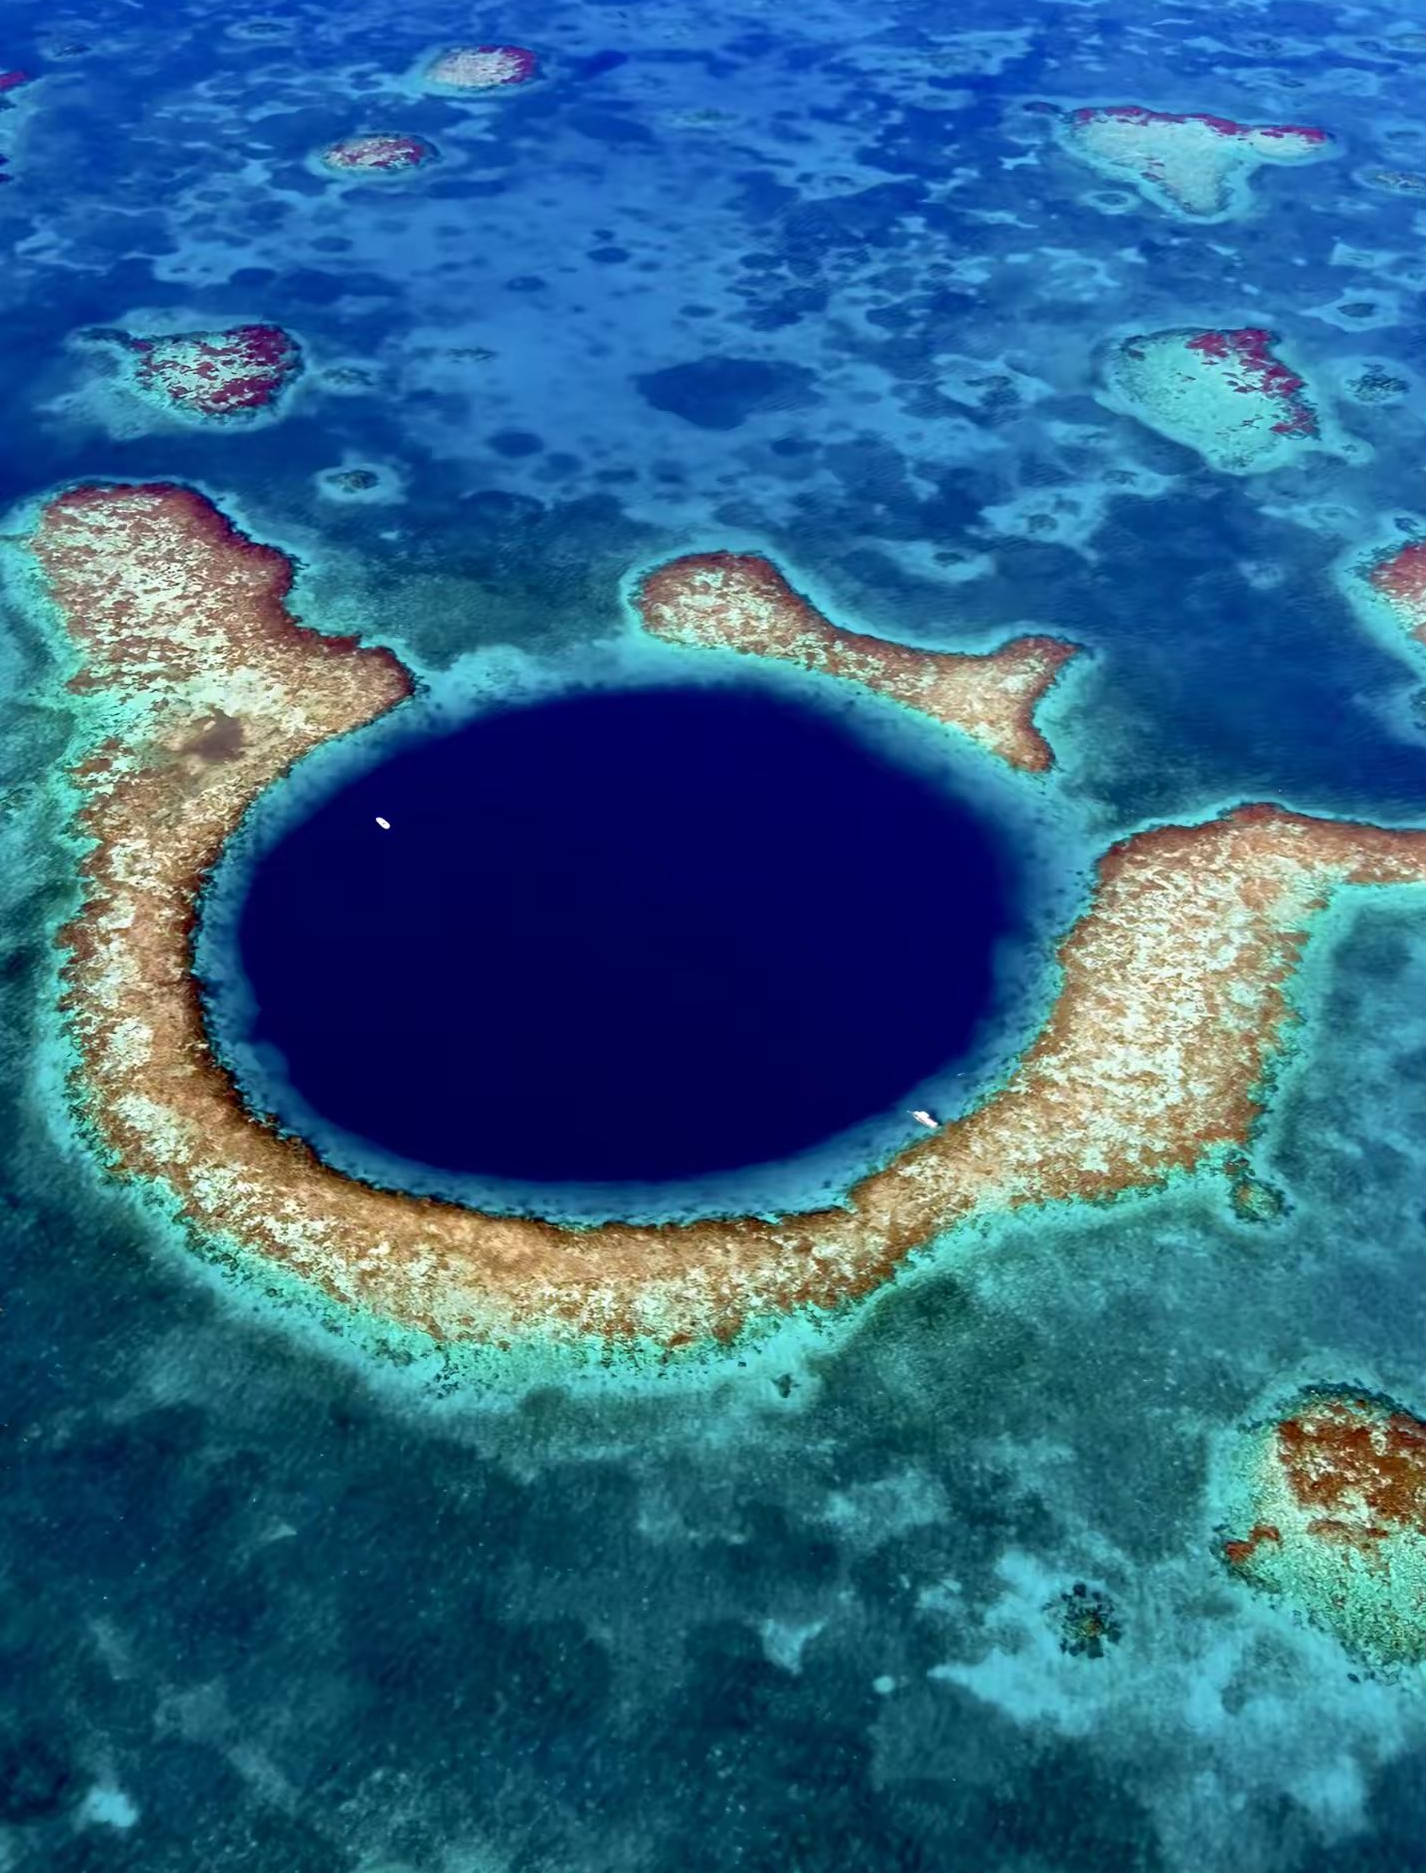
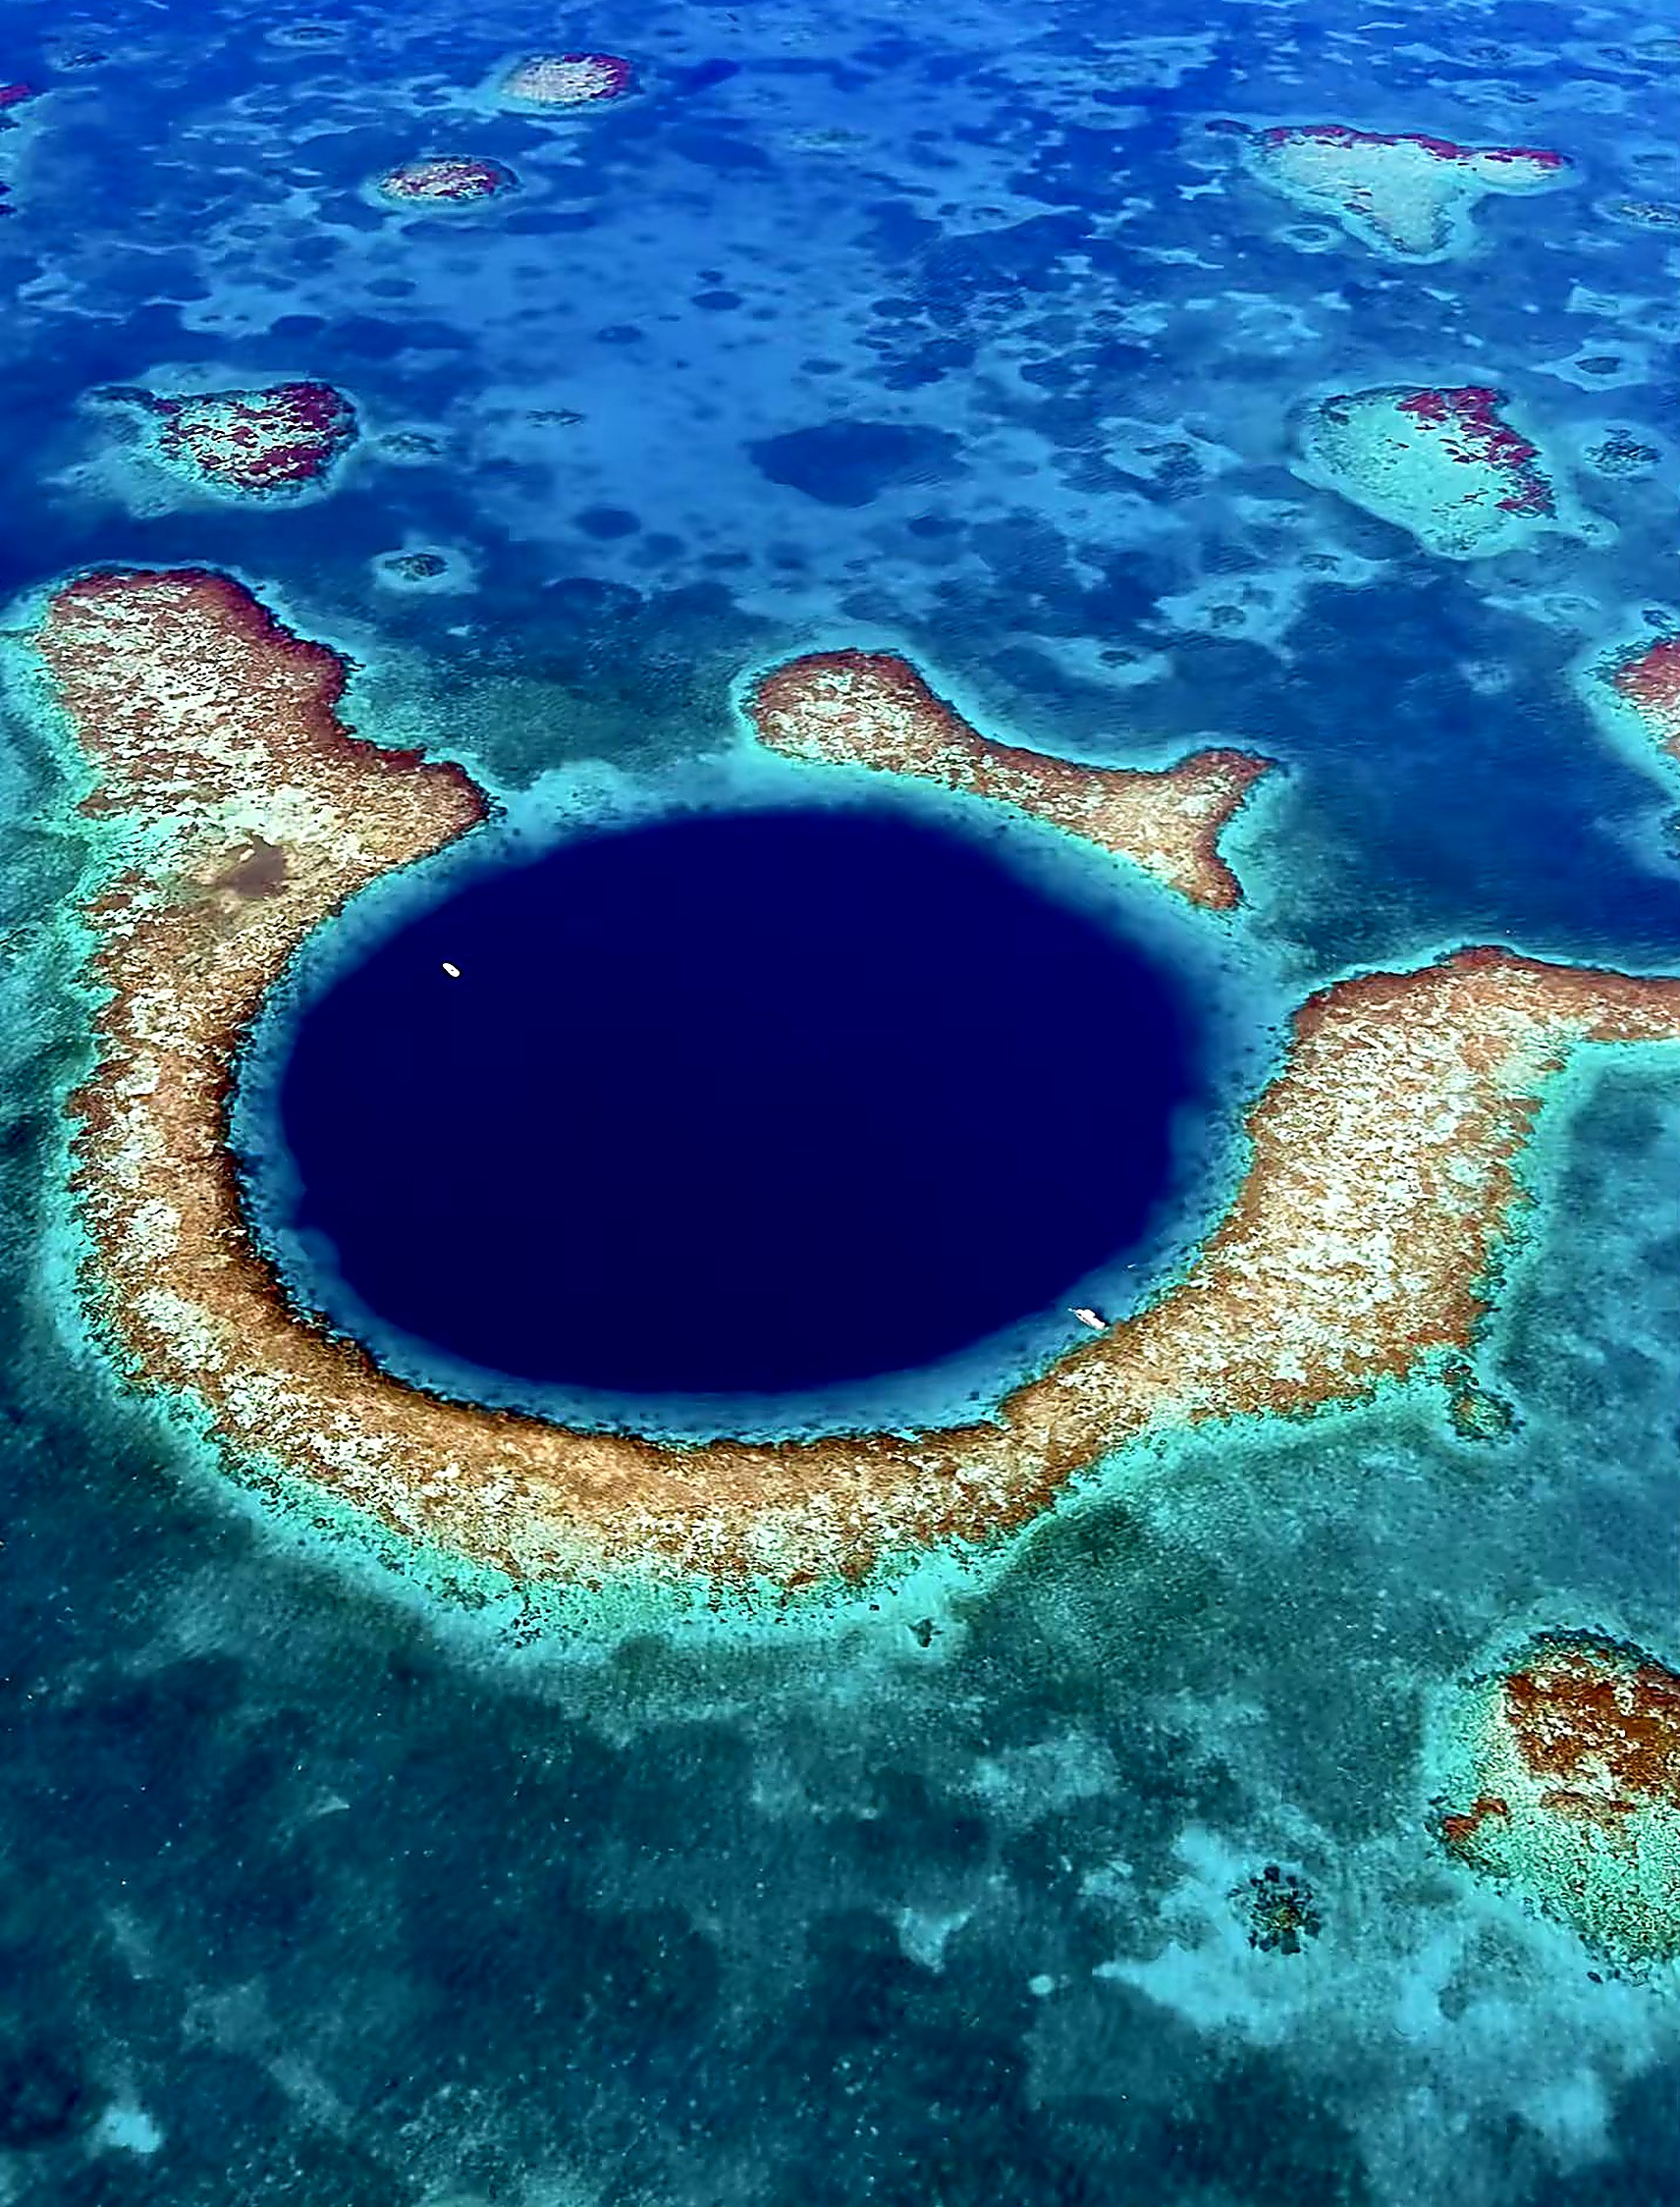
大蓝洞修复

diff --git a/js/home.js b/js/home.js
@@ -685,6 +685,8 @@ function createHomeViewportCoordinator() {
 }
 
 const homeViewportCoordinator = createHomeViewportCoordinator();
+const HOME_HERO_DEFAULT_SPOT_ID = 13;
+const HOME_CURATED_DEFAULT_DESTINATION_ID = 13;
 
 // 热门潜点数据：用于竹签滚动推荐区的卡片渲染、价格展示和详情页跳转。
 const divingSpotsData = convertSpotCardPrices([
@@ -994,8 +996,8 @@ const DIVE_MATCH_DATA = Object.freeze([
         note: '更温和的窗口、更轻的流速和更容易安顿下来的节奏，会让第一次靠近海自然很多。',
         cards: [
             { id: 9, reason: '码头、浅礁和岛上慢生活放得很近，第一次下潜也不会太紧张。', tags: ['入门友好', '浅礁', '慢节奏'] },
-            { id: 12, reason: '白沙岸线、短船程和更轻的出海节奏，会让第一次船潜更容易放松。', tags: ['入门 / OW', '轻船潜', '岸线'] },
-            { id: 6, reason: '海墙和海龟都很明亮，但整体节奏不会逼得太快。', tags: ['OW / AOW', '海龟', '清澈'] }
+            { id: 13, reason: '皇帝岛会先用白沙海湾、玻璃蓝和更轻一点的泰国船潜节奏，把第一次靠近安排得更从容。', tags: ['入门 / OW', '玻璃蓝', '轻船潜'] },
+            { id: 12, reason: '白沙岸线、短船程和更轻的出海节奏，会让第一次船潜更容易放松。', tags: ['入门 / OW', '轻船潜', '岸线'] }
         ]
     },
     {
@@ -1430,9 +1432,33 @@ class BambooScroll {
     init() {
         this.render();
         this.measure();
+        this.centerOnSpotId(HOME_HERO_DEFAULT_SPOT_ID);
         this.attachEvents();
         this.updateTrackPosition(true);
         this.scheduleAutoStep();
+    }
+
+    /**
+     * centerOnSpotId(spotId) - 让首页“今日海域”初始停在指定海域卡片
+     * @param {number} spotId - 需要优先展示的海域 id
+     * @returns {void} - 无返回值，直接把轨道移到目标卡片
+     */
+    centerOnSpotId(spotId) {
+        const targetDataIndex = divingSpotsData.findIndex((spot) => spot.id === spotId);
+        if (targetDataIndex < 0 || this.cards.length === 0 || this.cardCenterOffsets.length === 0) {
+            return;
+        }
+
+        const preferredSetIndex = Math.max(0, Math.floor(this.cloneSets / 2));
+        const targetCardIndex = this.clamp((preferredSetIndex * this.totalCards) + targetDataIndex, 0, this.cards.length - 1);
+        const targetCenter = this.cardCenterOffsets[targetCardIndex];
+        if (!Number.isFinite(targetCenter)) {
+            return;
+        }
+
+        this.trackPosition = targetCenter - this.wrapperCenter;
+        this.recenterTrack();
+        this.lastAppliedTrackPosition = Number.NaN;
     }
 
     /**
@@ -2647,7 +2673,7 @@ class CuratedWatersStage {
         this.mainCard = document.getElementById('curatedMainCard');
         this.liveSummary = document.getElementById('curatedLiveSummary');
         this.navRail = document.getElementById('destinationsGrid');
-        this.currentIndex = 0;
+        this.currentIndex = Math.max(0, destinationsData.findIndex((item) => item.id === HOME_CURATED_DEFAULT_DESTINATION_ID));
         this.sampleBatchSize = 3;
         this.sampleBatchCursor = 0;
         this.activeSampleSlot = 0;

diff --git a/assets/images/blue-hole-photo-sources.md b/assets/images/blue-hole-photo-sources.md
@@ -1,0 +1,29 @@
+# Blue Hole Photo Sources
+
+These Blue Hole review images were added on 2026-04-08.
+
+The review set uses Belize-area topside photos that fit the Great Blue Hole / Lighthouse Reef travel context:
+
+- San Pedro, Belize
+- Caye Caulker, Belize
+- Placencia, Belize
+
+| Local file | Source |
+| --- | --- |
+| `blue-hole-review-1-departure.jpg` | https://images.pexels.com/photos/15228087/pexels-photo-15228087.jpeg?auto=compress&cs=tinysrgb&dpr=2&h=750&w=1260 |
+| `blue-hole-review-1-return.jpg` | https://images.pexels.com/photos/11602919/pexels-photo-11602919.jpeg?auto=compress&cs=tinysrgb&dpr=2&h=750&w=1260 |
+| `blue-hole-review-1-sea-at-dusk.jpg` | https://images.pexels.com/photos/15228086/pexels-photo-15228086.jpeg?auto=compress&cs=tinysrgb&dpr=2&h=750&w=1260 |
+| `blue-hole-review-2-pier-morning.jpg` | https://images.pexels.com/photos/15228084/pexels-photo-15228084.jpeg?auto=compress&cs=tinysrgb&dpr=2&h=750&w=1260 |
+| `blue-hole-review-2-boat-return.jpg` | https://images.pexels.com/photos/4269571/pexels-photo-4269571.jpeg?auto=compress&cs=tinysrgb&dpr=2&h=750&w=1260 |
+| `blue-hole-review-3-before-dinner.jpg` | https://images.pexels.com/photos/31376165/pexels-photo-31376165.jpeg?auto=compress&cs=tinysrgb&dpr=2&h=750&w=1260 |
+| `blue-hole-review-3-pier-breeze.jpg` | https://images.pexels.com/photos/15382269/pexels-photo-15382269.jpeg?auto=compress&cs=tinysrgb&dpr=2&h=750&w=1260 |
+| `blue-hole-review-3-room-view.jpg` | https://images.pexels.com/photos/19823325/pexels-photo-19823325.jpeg?auto=compress&cs=tinysrgb&dpr=2&h=750&w=1260 |
+| `blue-hole-review-4-bow-blue.jpg` | https://images.pexels.com/photos/4716934/pexels-photo-4716934.jpeg?auto=compress&cs=tinysrgb&dpr=2&h=750&w=1260 |
+| `blue-hole-review-4-after-dive-pier.jpg` | https://images.pexels.com/photos/15019181/pexels-photo-15019181.jpeg?auto=compress&cs=tinysrgb&dpr=2&h=750&w=1260 |
+| `blue-hole-review-4-morning-sea.jpg` | https://images.pexels.com/photos/6307199/pexels-photo-6307199.jpeg?auto=compress&cs=tinysrgb&dpr=2&h=750&w=1260 |
+
+## Notes
+
+- I did not modify any review copy or page logic in this step.
+- `blue-hole.jpg` was kept as the project's existing main image, but I replaced it with a locally enhanced version of that same photo to reduce the soft / blurry look.
+- I also generated a quick visual check sheet at `artifacts/blue-hole-review-contact-sheet.jpg`.